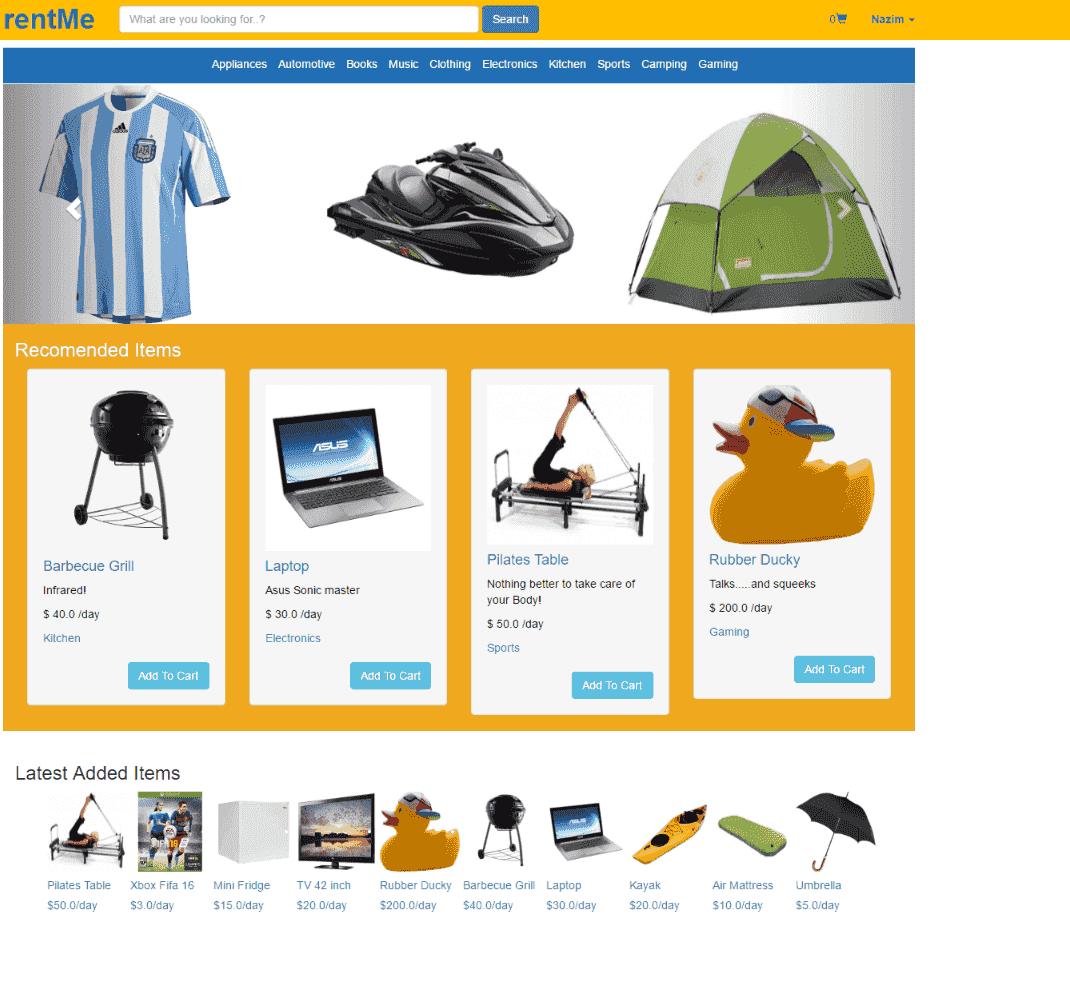
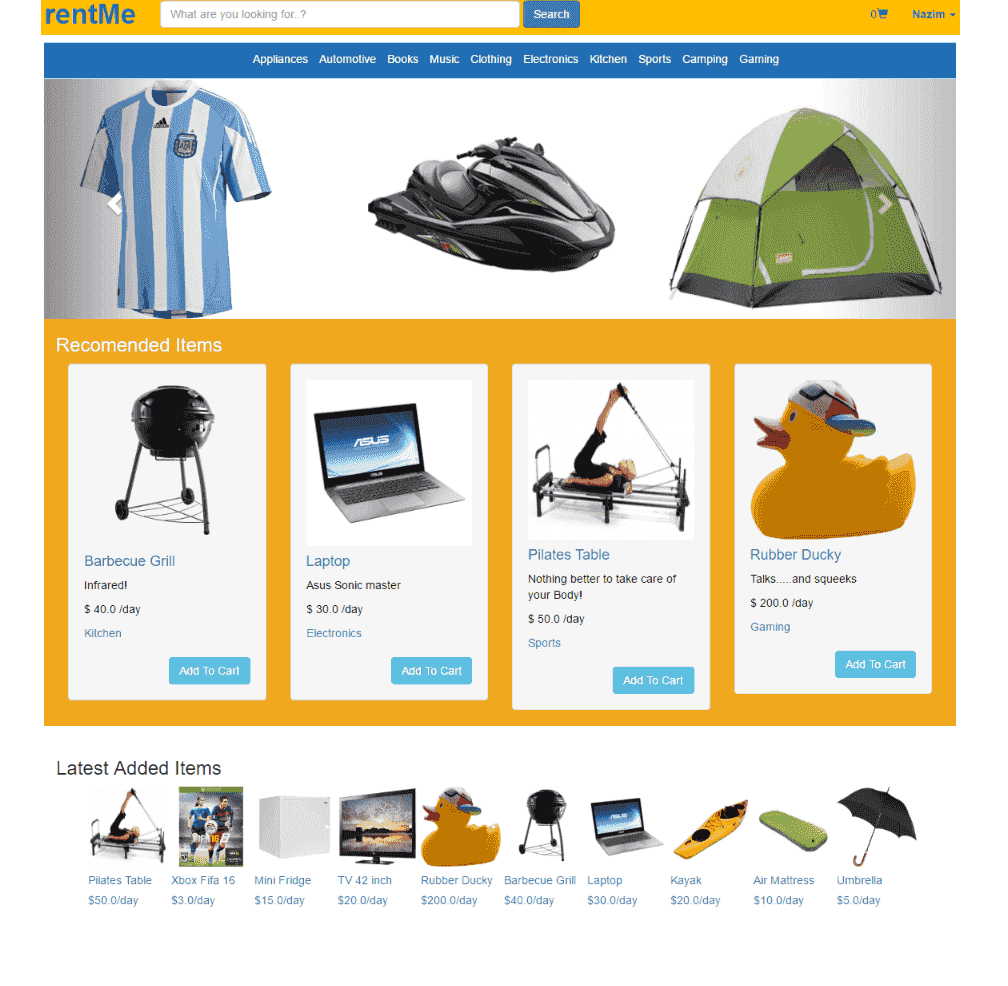
changed links and navs hover effects

diff --git a/app/assets/stylesheets/portfolio.scss b/app/assets/stylesheets/portfolio.scss
@@ -24,10 +24,27 @@ a {
     transition: 0.5s;
 }
 .custom > li > a:hover {
-    background-color: transparent;
+    background-color: #cc7a00;
     color: chocolate;
     font-size: 120%;
     transition: 0.5s;
+}
+
+.custom > li > a:focus {
+    background-color: #cc7a00;
+    color: chocolate;
+}
+
+.scroll:hover{
+    color: blue;
+}
+
+.box-link:hover {
+    text-decoration: none;
+}
+
+.active {
+    background-color: #cc7a00;
 }
 
 .clear{
@@ -155,7 +172,7 @@ a {
 	-ms-transition: all 1s ease-in;
 	-o-transition: all 1s ease-in;
 	-webkit-transition: all 1s ease-in;
-	width: 200%;
+	/*width: 200%;*/
 	height: auto;
 	top: 0px;
 	left: 0px;
@@ -165,8 +182,9 @@ a {
 .box:hover > img{
 	-webkit-filter: brightness(30%);
 	position: relative;
-	top: -10px;
-	left: -100px;
+    width: 110%;
+	top: -40px;
+	/*left: -100px;*/
 }
 
 .box:hover > .text{
@@ -213,7 +231,7 @@ textarea {
     background-color: #37495B;
     color: aliceblue;
     text-align: right;
-    padding-right: 20px;
+    padding: 10px 20px 0 0;
     margin-top: 30px;
     overflow: hidden;
 }

diff --git a/app/assets/javascripts/script.js b/app/assets/javascripts/script.js
@@ -1,4 +1,17 @@
 $(document).ready(function(){
+
+    var lines = ["    _/      _/                      _/                        _/_/_/ "
+                ,"   _/_/    _/    _/_/_/  _/_/_/_/      _/_/_/  _/_/          _/    _/"
+                ,"  _/  _/  _/  _/    _/      _/    _/  _/    _/    _/        _/_/_/   "
+                ," _/    _/_/  _/    _/    _/      _/  _/    _/    _/        _/    _/  "
+                ,"_/      _/    _/_/_/  _/_/_/_/  _/  _/    _/    _/    _/  _/_/_/     "
+                ];
+
+    for( var i in lines){
+        console.log(lines[i]);
+    }
+
+
     var swap1 = $(".glyphicon").css("color");
     var swap2 ="white";
     var swap;
@@ -77,8 +90,8 @@ $(document).ready(function(){
 
     $('ul.nav > li').click(function (e) {
         //e.preventDefault();
-        $('ul.nav > li').removeClass('active');
-        $(this).addClass('active');
+        $('ul.nav > li').children().removeClass('active');
+        $(this).children().addClass('active');
     });
 
     //Google Analytics

diff --git a/config/routes.rb b/config/routes.rb
@@ -4,6 +4,8 @@ Rails.application.routes.draw do
   root 'portfolio#index'
   post '/create' => 'portfolio#create'
 
+  match '*path' => redirect('/'), via: :get
+
   # The priority is based upon order of creation: first created -> highest priority.
   # See how all your routes lay out with "rake routes".
 
